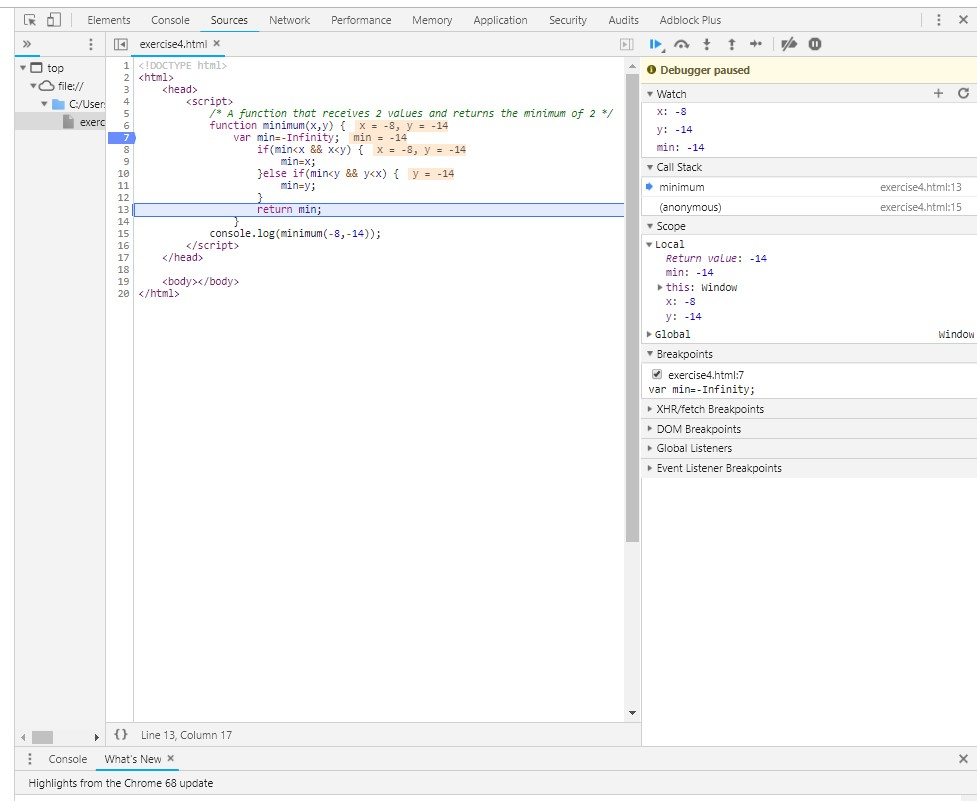
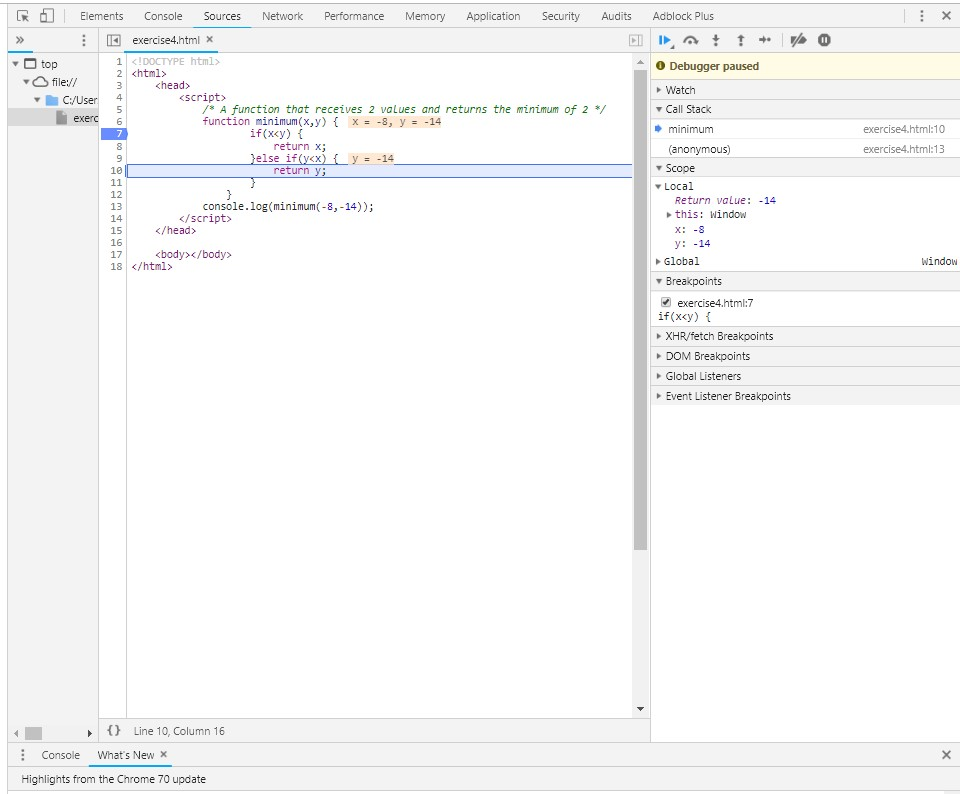
Add files via upload

diff --git a/exercise_4/exercise4.html b/exercise_4/exercise4.html
@@ -4,13 +4,11 @@
 		<script>
 			/* A function that receives 2 values and returns the minimum of 2 */
 			function minimum(x,y) {
-				var min=-Infinity;
-					if(min<x && x<y) {
-						min=x;
-					}else if(min<y && y<x) {
-						min=y;
+					if(x<y) {
+						return x;
+					}else if(y<x) {
+						return y;
 					}
-					return min;
 				}
 			console.log(minimum(-8,-14));
 		</script>
